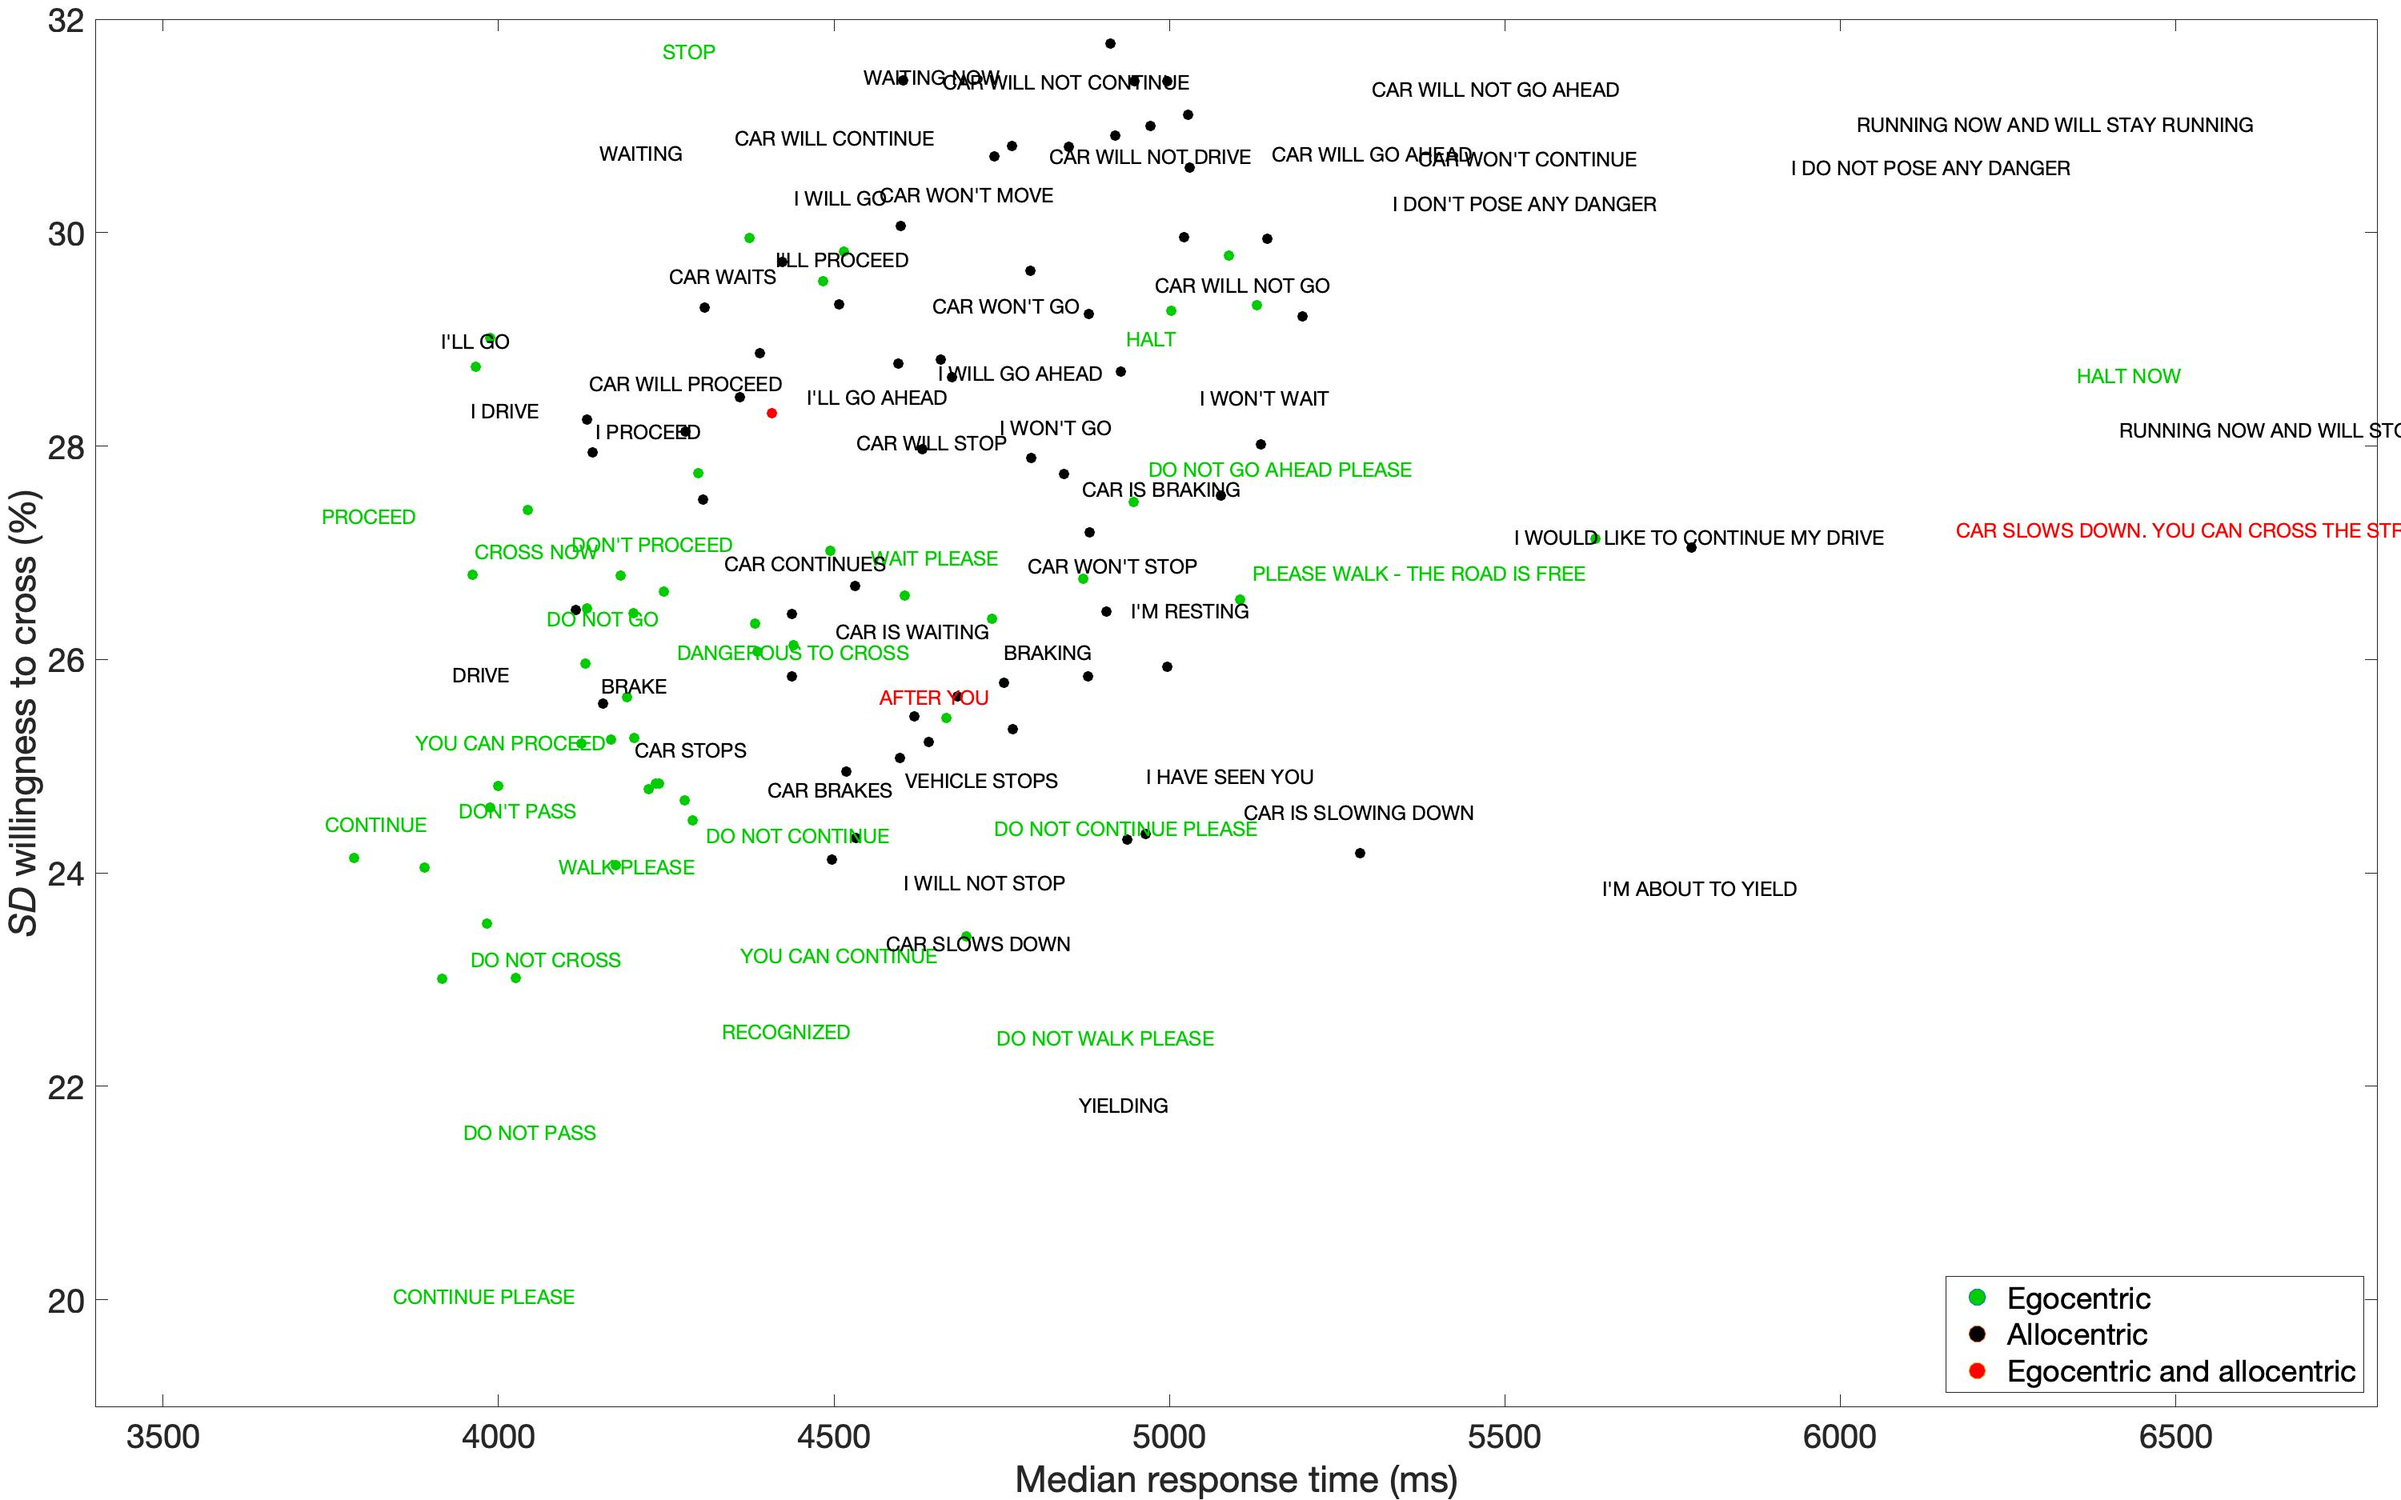
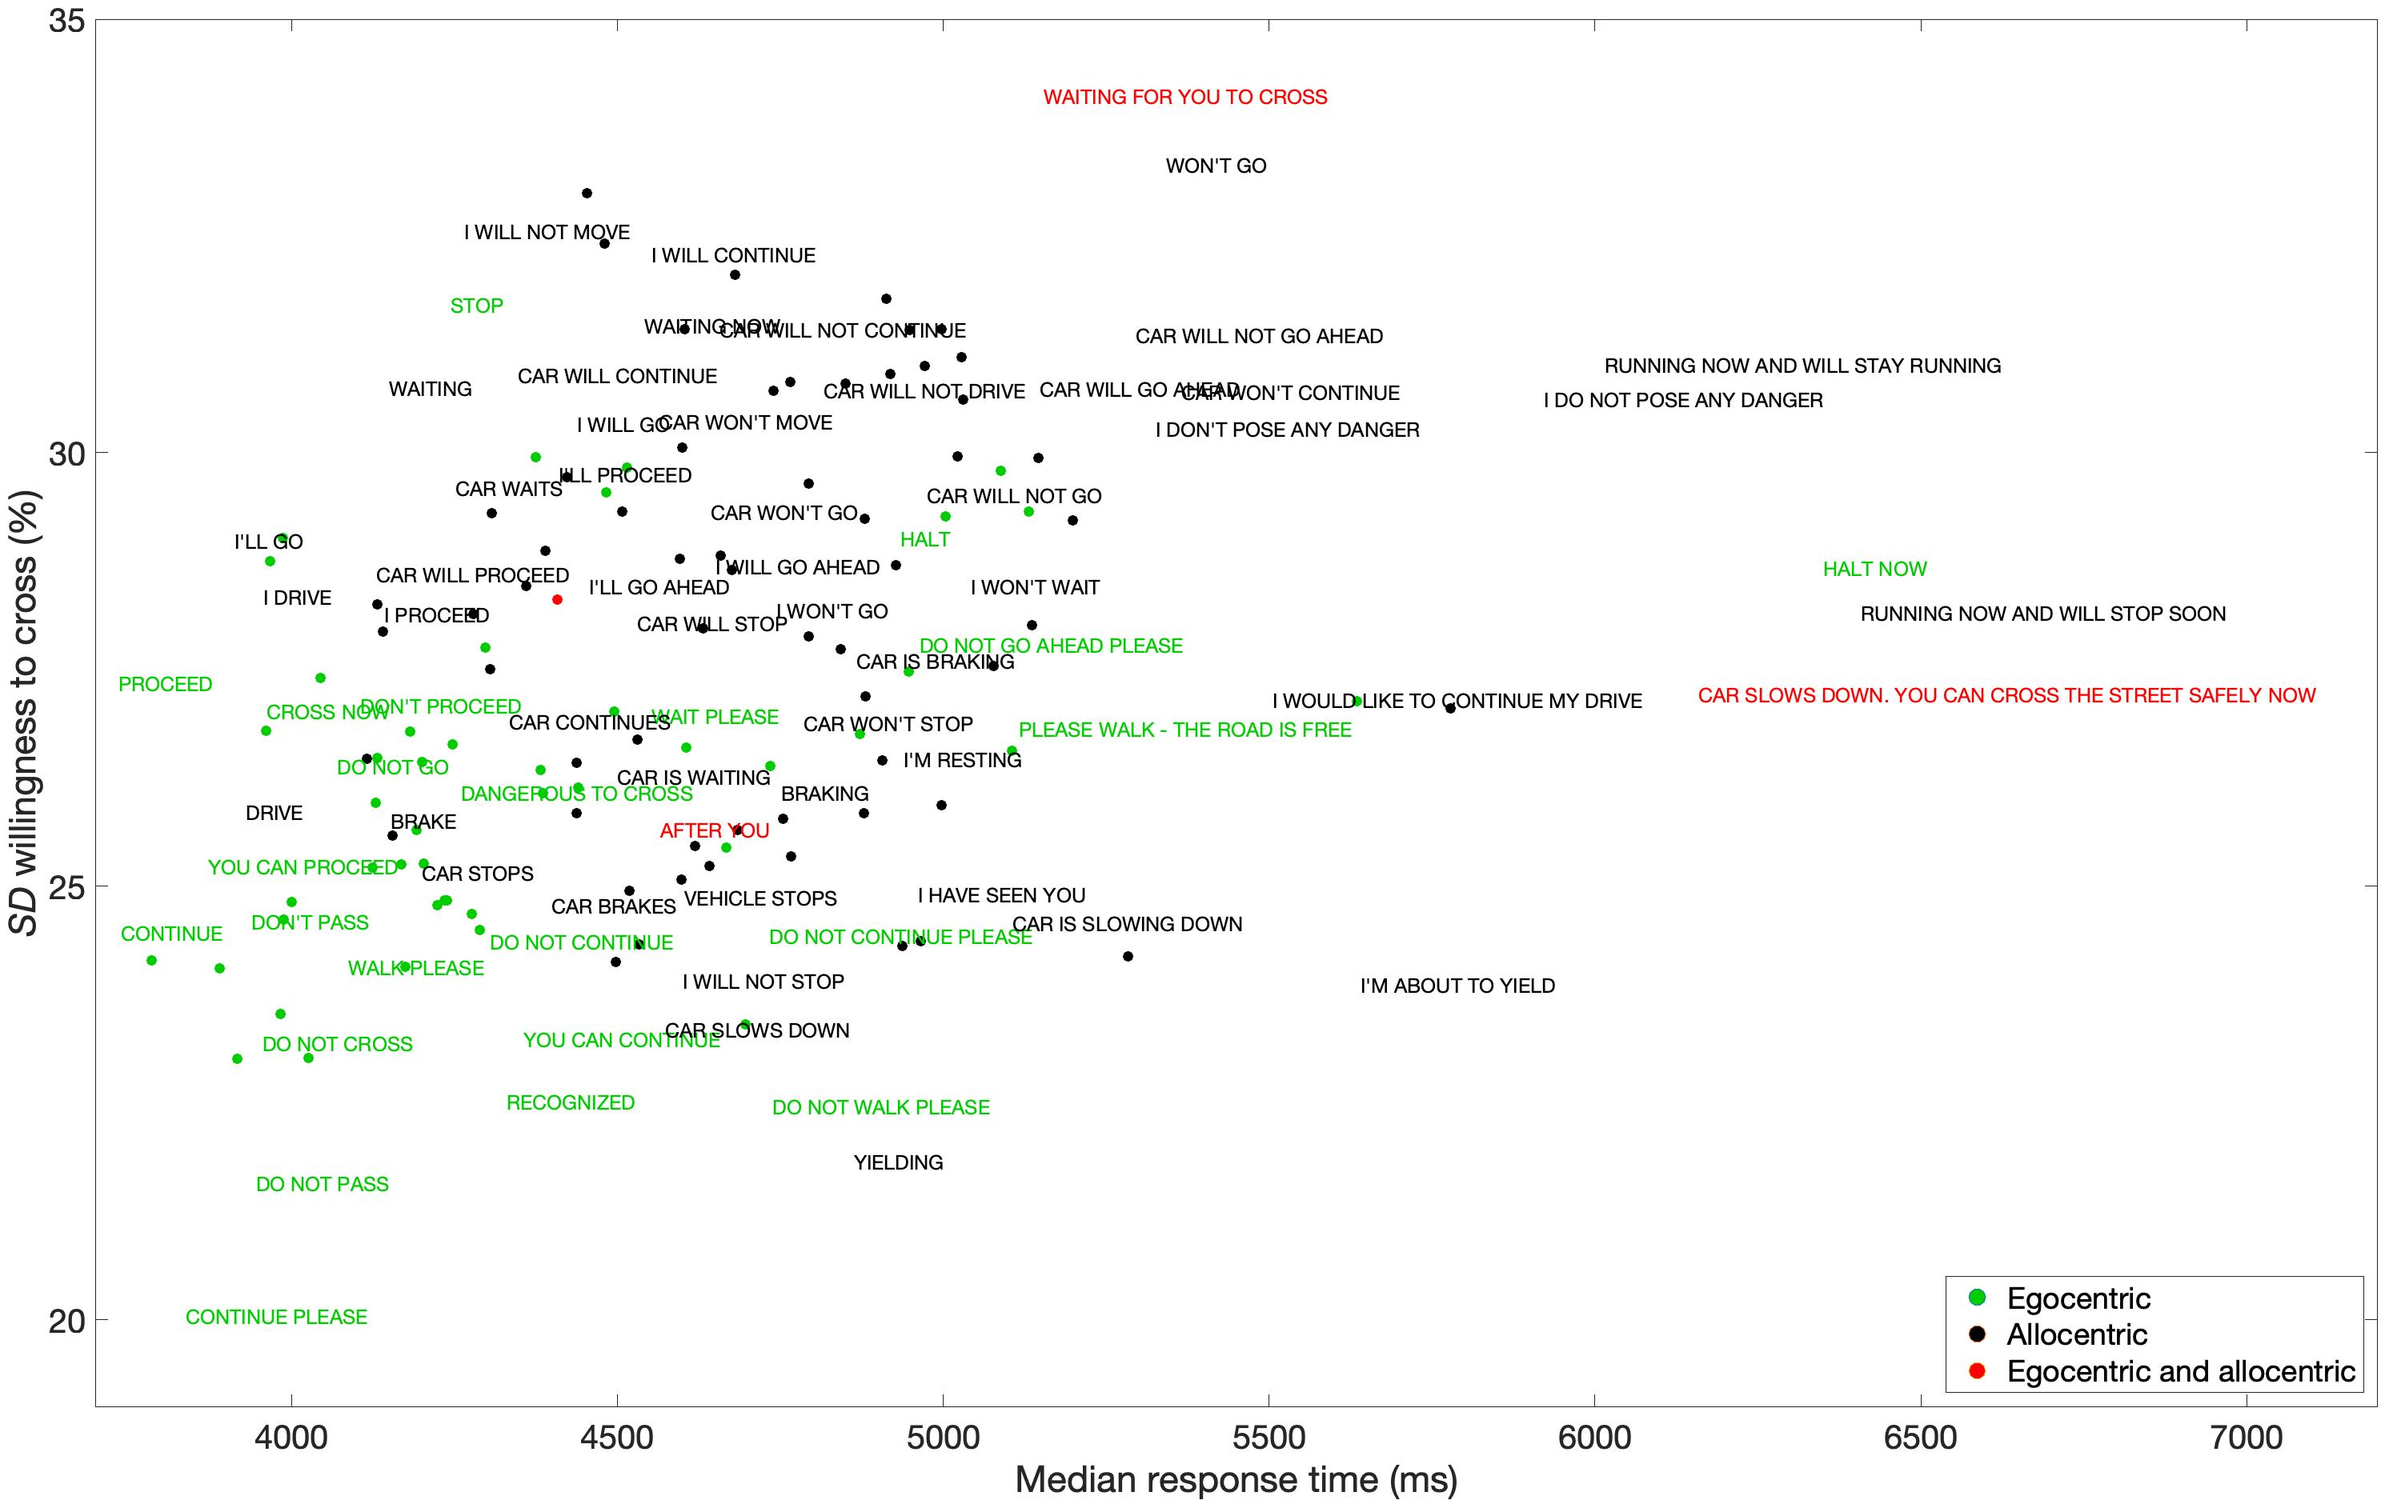
Updated limits

diff --git a/textehmi/analysis/analysis.m b/textehmi/analysis/analysis.m
@@ -195,8 +195,8 @@ xlabel('Median response time (ms)');
 ylabel('\it{SD}\rm willingness to cross (%)');
 set(gca, 'Fontsize', 20, ...
     'LooseInset', [0.01 0.01 0.01 0.01], ...
-    'xlim', [3400 6800], ...
-    'ylim', [19 32], ...
+    'xlim', [3700 7200], ...
+    'ylim', [19 35], ...
     'ticklength', [0.005 0.005])
 legend('Egocentric', 'Allocentric', 'Egocentric and allocentric', ...
        'location', 'southeast')
